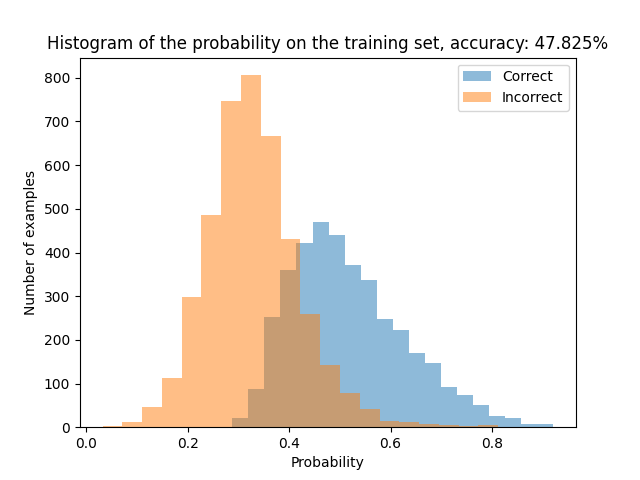
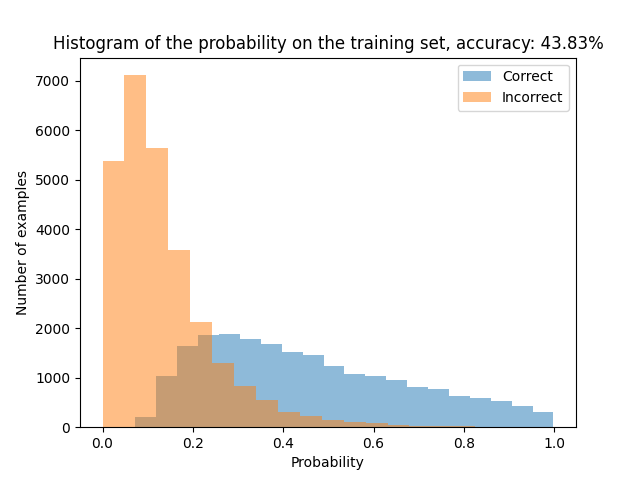
trying to do somethings

diff --git a/Assignment1/README_bonus.md b/Assignment1/README_bonus.md
@@ -30,7 +30,7 @@ Unfortunately, the step decay is not helping so much. But the accuracy is not os
 
 ## Train network - multiple binary cross-entropy losses
 
-After that, I implement the **multiple binary cross-entropy losses** with **sigmoid** activation function.
+After that, I implement the **multiple binary cross-entropy losses** with **sigmoid** activation function on all the dataset.
 $$
 \sigma(s) = \frac{1}{1+e^{-s}} \\
 l_{multiple\ bce} = -\frac{1}{K}\sum_{i=1}^{K} y_i \log(\hat{y}_i) + (1-y_i) \log(1-\hat{y}_i) \\
@@ -43,7 +43,7 @@ $$
 \frac{\partial  l_{multiple\ bce}}{\partial b} = \frac{1}{K} \sum_{i=1}^{K} (\hat{y}_i - y_i)
 $$
 
-And this is the result I obtained with the hyperparameters: `lambda=0.1, n_epochs=50, n_batch=100, eta=.0001`:
+And this is the result I obtained with the hyperparameters: `n_batch=200, n_epochs=50, eta=.001`:
 ![Histograms Train](Result_Pics/histogram_train.png)
 ![Histograms Validation](Result_Pics/histogram_val.png)
 ![Histograms Test](Result_Pics/histogram_test.png)
